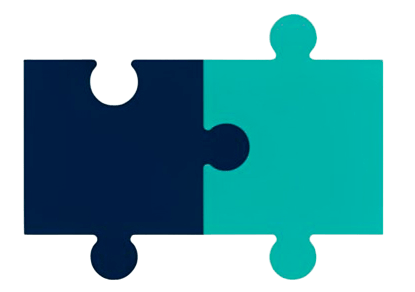
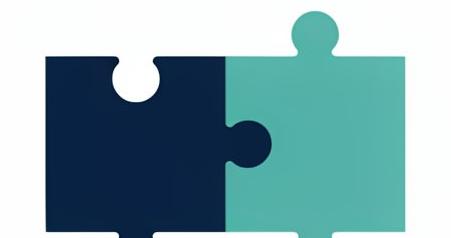
Add files via upload

diff --git a/assets/styles.css b/assets/styles.css
@@ -32,6 +32,11 @@
 *,*::before,*::after{ box-sizing:border-box; }
 html{ scroll-behavior:smooth; }
 
+html, body{
+  max-width:100%;
+  overflow-x:hidden;
+}
+
 body{
   margin:0;
   font-family:var(--font-body);
@@ -133,15 +138,19 @@ a{ color:inherit; text-decoration:none; }
 .site-header .container{
   display:flex; align-items:center; justify-content:space-between;
   height:78px;
+  gap:12px;
 }
-.brand{ display:flex; align-items:center; gap:12px; }
-.brand img{ height:38px; width:auto; }
+.brand{ display:flex; align-items:center; gap:12px; min-width:0; flex-shrink:1; }
+.brand img{ height:38px; width:auto; flex:none; }
 .brand-word{
   font-family:var(--font-display);
   font-weight:800;
   font-size:1.02rem;
   color:var(--navy);
   line-height:1.05;
+  white-space:nowrap;
+  overflow:hidden;
+  text-overflow:ellipsis;
 }
 .brand-word small{
   display:block;
@@ -152,6 +161,9 @@ a{ color:inherit; text-decoration:none; }
   text-transform:uppercase;
   color:var(--teal-dark);
   margin-top:2px;
+  white-space:nowrap;
+  overflow:hidden;
+  text-overflow:ellipsis;
 }
 
 .nav-links{
@@ -169,7 +181,7 @@ a{ color:inherit; text-decoration:none; }
 .nav-links a:hover::after, .nav-links a.active::after{ right:0; }
 .nav-links a.active{ color:var(--teal-dark); }
 
-.header-cta{ display:flex; align-items:center; gap:18px; }
+.header-cta{ display:flex; align-items:center; gap:18px; flex:none; }
 .phone-link{
   font-family:var(--font-display);
   font-weight:700;
@@ -323,7 +335,7 @@ a{ color:inherit; text-decoration:none; }
 
 /* --------------------------------- 360 radar --------------------------------- */
 .radar{
-  width:150px; height:150px; position:relative; flex:none;
+  width:150px; height:150px; max-width:100%; position:relative; flex:none;
 }
 .radar svg{ width:100%; height:100%; }
 .radar .ring{ fill:none; stroke:var(--teal); }
@@ -506,6 +518,8 @@ a{ color:inherit; text-decoration:none; }
 @media (max-width: 760px){
   .nav-links, .header-cta .phone-link{ display:none; }
   .nav-toggle{ display:flex; }
+  .header-cta{ gap:10px; }
+  .header-cta .btn-sm{ padding:11px 16px; }
   .site-header.open .nav-links{
     display:flex; position:absolute; top:78px; left:0; right:0;
     background:var(--white); flex-direction:column; padding:24px; gap:18px;
@@ -518,4 +532,18 @@ a{ color:inherit; text-decoration:none; }
   h1{ font-size:2rem !important; }
   .leadmagnet h2{ font-size:1.5rem; }
   .service-catalog-item{ flex-direction:column; align-items:flex-start; gap:10px; }
+}
+
+@media (max-width: 420px){
+  .container{ padding:0 16px; }
+  .site-header .container{ height:68px; gap:8px; }
+  .brand{ gap:8px; }
+  .brand img{ height:30px; }
+  .brand-word{ font-size:.86rem; max-width:118px; }
+  .brand-word small{ font-size:.55rem; }
+  .header-cta{ gap:8px; }
+  .header-cta .btn-sm{ padding:10px 14px; font-size:.82rem; }
+  .header-cta .btn-sm span.btn-label{ display:none; }
+  .nav-toggle{ width:38px; height:38px; }
+  h1{ font-size:1.7rem !important; }
 }

diff --git a/assortiment.html b/assortiment.html
@@ -31,7 +31,7 @@
     </nav>
     <div class="header-cta">
       <a href="tel:+375445278818" class="phone-link"><svg width="17" height="17" viewBox="0 0 24 24" fill="none"><path d="M5 4h3l2 5-2.5 1.5a11 11 0 0 0 5 5L14 13l5 2v3a2 2 0 0 1-2 2C10 20 4 14 4 7a2 2 0 0 1 1-3z" stroke="currentColor" stroke-width="1.5" stroke-linejoin="round"/></svg> +375 44 527 88 18</a>
-      <a href="tel:+375445278818" class="btn btn-teal btn-sm">Позвонить</a>
+      <a href="tel:+375445278818" class="btn btn-teal btn-sm"><svg width="17" height="17" viewBox="0 0 24 24" fill="none"><path d="M5 4h3l2 5-2.5 1.5a11 11 0 0 0 5 5L14 13l5 2v3a2 2 0 0 1-2 2C10 20 4 14 4 7a2 2 0 0 1 1-3z" stroke="currentColor" stroke-width="1.5" stroke-linejoin="round"/></svg><span class="btn-label">Позвонить</span></a>
       <button class="nav-toggle" aria-label="Меню"><span></span></button>
     </div>
   </div>

diff --git a/audit-360.html b/audit-360.html
@@ -31,7 +31,7 @@
     </nav>
     <div class="header-cta">
       <a href="tel:+375445278818" class="phone-link"><svg width="17" height="17" viewBox="0 0 24 24" fill="none"><path d="M5 4h3l2 5-2.5 1.5a11 11 0 0 0 5 5L14 13l5 2v3a2 2 0 0 1-2 2C10 20 4 14 4 7a2 2 0 0 1 1-3z" stroke="currentColor" stroke-width="1.5" stroke-linejoin="round"/></svg> +375 44 527 88 18</a>
-      <a href="tel:+375445278818" class="btn btn-teal btn-sm">Позвонить</a>
+      <a href="tel:+375445278818" class="btn btn-teal btn-sm"><svg width="17" height="17" viewBox="0 0 24 24" fill="none"><path d="M5 4h3l2 5-2.5 1.5a11 11 0 0 0 5 5L14 13l5 2v3a2 2 0 0 1-2 2C10 20 4 14 4 7a2 2 0 0 1 1-3z" stroke="currentColor" stroke-width="1.5" stroke-linejoin="round"/></svg><span class="btn-label">Позвонить</span></a>
       <button class="nav-toggle" aria-label="Меню"><span></span></button>
     </div>
   </div>

diff --git a/hr-sistema.html b/hr-sistema.html
@@ -31,7 +31,7 @@
     </nav>
     <div class="header-cta">
       <a href="tel:+375445278818" class="phone-link"><svg width="17" height="17" viewBox="0 0 24 24" fill="none"><path d="M5 4h3l2 5-2.5 1.5a11 11 0 0 0 5 5L14 13l5 2v3a2 2 0 0 1-2 2C10 20 4 14 4 7a2 2 0 0 1 1-3z" stroke="currentColor" stroke-width="1.5" stroke-linejoin="round"/></svg> +375 44 527 88 18</a>
-      <a href="tel:+375445278818" class="btn btn-teal btn-sm">Позвонить</a>
+      <a href="tel:+375445278818" class="btn btn-teal btn-sm"><svg width="17" height="17" viewBox="0 0 24 24" fill="none"><path d="M5 4h3l2 5-2.5 1.5a11 11 0 0 0 5 5L14 13l5 2v3a2 2 0 0 1-2 2C10 20 4 14 4 7a2 2 0 0 1 1-3z" stroke="currentColor" stroke-width="1.5" stroke-linejoin="round"/></svg><span class="btn-label">Позвонить</span></a>
       <button class="nav-toggle" aria-label="Меню"><span></span></button>
     </div>
   </div>

diff --git a/index.html b/index.html
@@ -31,7 +31,7 @@
     </nav>
     <div class="header-cta">
       <a href="tel:+375445278818" class="phone-link"><svg width="17" height="17" viewBox="0 0 24 24" fill="none"><path d="M5 4h3l2 5-2.5 1.5a11 11 0 0 0 5 5L14 13l5 2v3a2 2 0 0 1-2 2C10 20 4 14 4 7a2 2 0 0 1 1-3z" stroke="currentColor" stroke-width="1.5" stroke-linejoin="round"/></svg> +375 44 527 88 18</a>
-      <a href="tel:+375445278818" class="btn btn-teal btn-sm">Позвонить</a>
+      <a href="tel:+375445278818" class="btn btn-teal btn-sm"><svg width="17" height="17" viewBox="0 0 24 24" fill="none"><path d="M5 4h3l2 5-2.5 1.5a11 11 0 0 0 5 5L14 13l5 2v3a2 2 0 0 1-2 2C10 20 4 14 4 7a2 2 0 0 1 1-3z" stroke="currentColor" stroke-width="1.5" stroke-linejoin="round"/></svg><span class="btn-label">Позвонить</span></a>
       <button class="nav-toggle" aria-label="Меню"><span></span></button>
     </div>
   </div>

diff --git a/insaity.html b/insaity.html
@@ -31,7 +31,7 @@
     </nav>
     <div class="header-cta">
       <a href="tel:+375445278818" class="phone-link"><svg width="17" height="17" viewBox="0 0 24 24" fill="none"><path d="M5 4h3l2 5-2.5 1.5a11 11 0 0 0 5 5L14 13l5 2v3a2 2 0 0 1-2 2C10 20 4 14 4 7a2 2 0 0 1 1-3z" stroke="currentColor" stroke-width="1.5" stroke-linejoin="round"/></svg> +375 44 527 88 18</a>
-      <a href="tel:+375445278818" class="btn btn-teal btn-sm">Позвонить</a>
+      <a href="tel:+375445278818" class="btn btn-teal btn-sm"><svg width="17" height="17" viewBox="0 0 24 24" fill="none"><path d="M5 4h3l2 5-2.5 1.5a11 11 0 0 0 5 5L14 13l5 2v3a2 2 0 0 1-2 2C10 20 4 14 4 7a2 2 0 0 1 1-3z" stroke="currentColor" stroke-width="1.5" stroke-linejoin="round"/></svg><span class="btn-label">Позвонить</span></a>
       <button class="nav-toggle" aria-label="Меню"><span></span></button>
     </div>
   </div>

diff --git a/kontakty.html b/kontakty.html
@@ -31,7 +31,7 @@
     </nav>
     <div class="header-cta">
       <a href="tel:+375445278818" class="phone-link"><svg width="17" height="17" viewBox="0 0 24 24" fill="none"><path d="M5 4h3l2 5-2.5 1.5a11 11 0 0 0 5 5L14 13l5 2v3a2 2 0 0 1-2 2C10 20 4 14 4 7a2 2 0 0 1 1-3z" stroke="currentColor" stroke-width="1.5" stroke-linejoin="round"/></svg> +375 44 527 88 18</a>
-      <a href="tel:+375445278818" class="btn btn-teal btn-sm">Позвонить</a>
+      <a href="tel:+375445278818" class="btn btn-teal btn-sm"><svg width="17" height="17" viewBox="0 0 24 24" fill="none"><path d="M5 4h3l2 5-2.5 1.5a11 11 0 0 0 5 5L14 13l5 2v3a2 2 0 0 1-2 2C10 20 4 14 4 7a2 2 0 0 1 1-3z" stroke="currentColor" stroke-width="1.5" stroke-linejoin="round"/></svg><span class="btn-label">Позвонить</span></a>
       <button class="nav-toggle" aria-label="Меню"><span></span></button>
     </div>
   </div>

diff --git a/o-kompanii.html b/o-kompanii.html
@@ -31,7 +31,7 @@
     </nav>
     <div class="header-cta">
       <a href="tel:+375445278818" class="phone-link"><svg width="17" height="17" viewBox="0 0 24 24" fill="none"><path d="M5 4h3l2 5-2.5 1.5a11 11 0 0 0 5 5L14 13l5 2v3a2 2 0 0 1-2 2C10 20 4 14 4 7a2 2 0 0 1 1-3z" stroke="currentColor" stroke-width="1.5" stroke-linejoin="round"/></svg> +375 44 527 88 18</a>
-      <a href="tel:+375445278818" class="btn btn-teal btn-sm">Позвонить</a>
+      <a href="tel:+375445278818" class="btn btn-teal btn-sm"><svg width="17" height="17" viewBox="0 0 24 24" fill="none"><path d="M5 4h3l2 5-2.5 1.5a11 11 0 0 0 5 5L14 13l5 2v3a2 2 0 0 1-2 2C10 20 4 14 4 7a2 2 0 0 1 1-3z" stroke="currentColor" stroke-width="1.5" stroke-linejoin="round"/></svg><span class="btn-label">Позвонить</span></a>
       <button class="nav-toggle" aria-label="Меню"><span></span></button>
     </div>
   </div>

diff --git a/optimizatsiya.html b/optimizatsiya.html
@@ -31,7 +31,7 @@
     </nav>
     <div class="header-cta">
       <a href="tel:+375445278818" class="phone-link"><svg width="17" height="17" viewBox="0 0 24 24" fill="none"><path d="M5 4h3l2 5-2.5 1.5a11 11 0 0 0 5 5L14 13l5 2v3a2 2 0 0 1-2 2C10 20 4 14 4 7a2 2 0 0 1 1-3z" stroke="currentColor" stroke-width="1.5" stroke-linejoin="round"/></svg> +375 44 527 88 18</a>
-      <a href="tel:+375445278818" class="btn btn-teal btn-sm">Позвонить</a>
+      <a href="tel:+375445278818" class="btn btn-teal btn-sm"><svg width="17" height="17" viewBox="0 0 24 24" fill="none"><path d="M5 4h3l2 5-2.5 1.5a11 11 0 0 0 5 5L14 13l5 2v3a2 2 0 0 1-2 2C10 20 4 14 4 7a2 2 0 0 1 1-3z" stroke="currentColor" stroke-width="1.5" stroke-linejoin="round"/></svg><span class="btn-label">Позвонить</span></a>
       <button class="nav-toggle" aria-label="Меню"><span></span></button>
     </div>
   </div>

diff --git a/otkrytie-pod-klyuch.html b/otkrytie-pod-klyuch.html
@@ -31,7 +31,7 @@
     </nav>
     <div class="header-cta">
       <a href="tel:+375445278818" class="phone-link"><svg width="17" height="17" viewBox="0 0 24 24" fill="none"><path d="M5 4h3l2 5-2.5 1.5a11 11 0 0 0 5 5L14 13l5 2v3a2 2 0 0 1-2 2C10 20 4 14 4 7a2 2 0 0 1 1-3z" stroke="currentColor" stroke-width="1.5" stroke-linejoin="round"/></svg> +375 44 527 88 18</a>
-      <a href="tel:+375445278818" class="btn btn-teal btn-sm">Позвонить</a>
+      <a href="tel:+375445278818" class="btn btn-teal btn-sm"><svg width="17" height="17" viewBox="0 0 24 24" fill="none"><path d="M5 4h3l2 5-2.5 1.5a11 11 0 0 0 5 5L14 13l5 2v3a2 2 0 0 1-2 2C10 20 4 14 4 7a2 2 0 0 1 1-3z" stroke="currentColor" stroke-width="1.5" stroke-linejoin="round"/></svg><span class="btn-label">Позвонить</span></a>
       <button class="nav-toggle" aria-label="Меню"><span></span></button>
     </div>
   </div>

diff --git a/proektirovanie.html b/proektirovanie.html
@@ -31,7 +31,7 @@
     </nav>
     <div class="header-cta">
       <a href="tel:+375445278818" class="phone-link"><svg width="17" height="17" viewBox="0 0 24 24" fill="none"><path d="M5 4h3l2 5-2.5 1.5a11 11 0 0 0 5 5L14 13l5 2v3a2 2 0 0 1-2 2C10 20 4 14 4 7a2 2 0 0 1 1-3z" stroke="currentColor" stroke-width="1.5" stroke-linejoin="round"/></svg> +375 44 527 88 18</a>
-      <a href="tel:+375445278818" class="btn btn-teal btn-sm">Позвонить</a>
+      <a href="tel:+375445278818" class="btn btn-teal btn-sm"><svg width="17" height="17" viewBox="0 0 24 24" fill="none"><path d="M5 4h3l2 5-2.5 1.5a11 11 0 0 0 5 5L14 13l5 2v3a2 2 0 0 1-2 2C10 20 4 14 4 7a2 2 0 0 1 1-3z" stroke="currentColor" stroke-width="1.5" stroke-linejoin="round"/></svg><span class="btn-label">Позвонить</span></a>
       <button class="nav-toggle" aria-label="Меню"><span></span></button>
     </div>
   </div>

diff --git a/tsenoobrazovanie.html b/tsenoobrazovanie.html
@@ -31,7 +31,7 @@
     </nav>
     <div class="header-cta">
       <a href="tel:+375445278818" class="phone-link"><svg width="17" height="17" viewBox="0 0 24 24" fill="none"><path d="M5 4h3l2 5-2.5 1.5a11 11 0 0 0 5 5L14 13l5 2v3a2 2 0 0 1-2 2C10 20 4 14 4 7a2 2 0 0 1 1-3z" stroke="currentColor" stroke-width="1.5" stroke-linejoin="round"/></svg> +375 44 527 88 18</a>
-      <a href="tel:+375445278818" class="btn btn-teal btn-sm">Позвонить</a>
+      <a href="tel:+375445278818" class="btn btn-teal btn-sm"><svg width="17" height="17" viewBox="0 0 24 24" fill="none"><path d="M5 4h3l2 5-2.5 1.5a11 11 0 0 0 5 5L14 13l5 2v3a2 2 0 0 1-2 2C10 20 4 14 4 7a2 2 0 0 1 1-3z" stroke="currentColor" stroke-width="1.5" stroke-linejoin="round"/></svg><span class="btn-label">Позвонить</span></a>
       <button class="nav-toggle" aria-label="Меню"><span></span></button>
     </div>
   </div>
